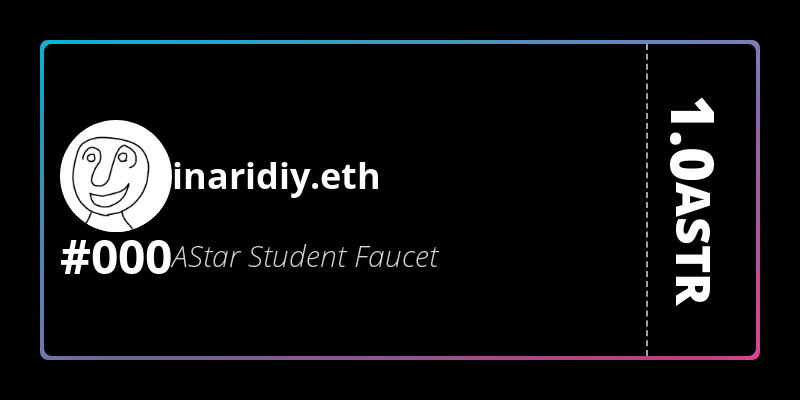
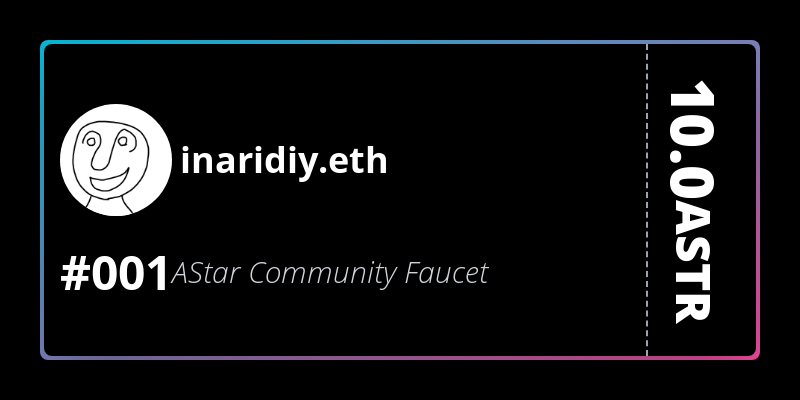
画像などの表記を修正

Changed region(s): [[0.0625, 0.24, 0.625, 0.72], [0.8125, 0.21, 0.9062, 0.81]]

diff --git a/app/src/components/DefaultLayout.tsx b/app/src/components/DefaultLayout.tsx
@@ -114,7 +114,7 @@ export const Footer: React.FC<{ type: contractTypes }> = ({ type }) => (
   <footer className="footer mt-auto items-center bg-neutral p-4 text-neutral-content">
     <div className="grid-flow-col items-center">
       <BsGear size="36" />
-      <p> Student Faucet © 2022 - All right reserved</p>
+      <p> Community Faucet © 2022 - All right reserved</p>
     </div>
     <div className="grid-flow-col gap-4 md:place-self-center md:justify-self-end">
       <a href="https://twitter.com/unknown_gakusei">
